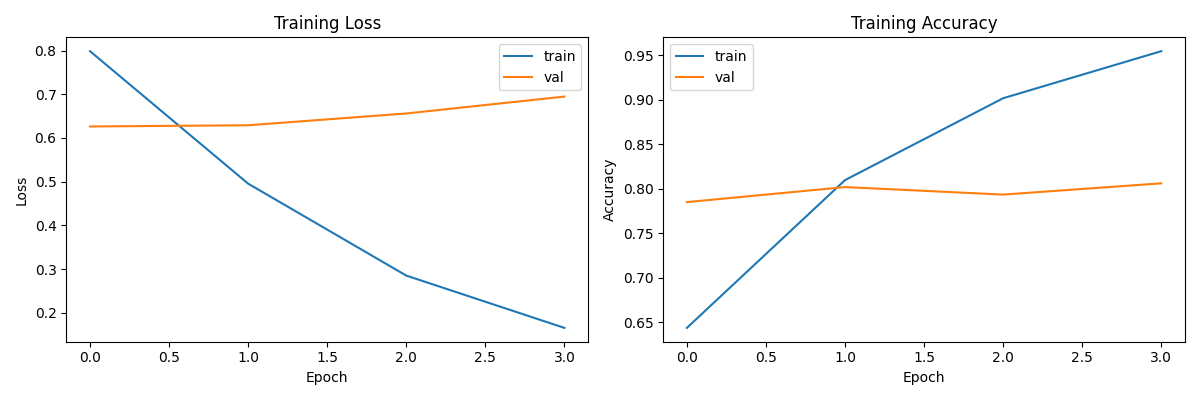
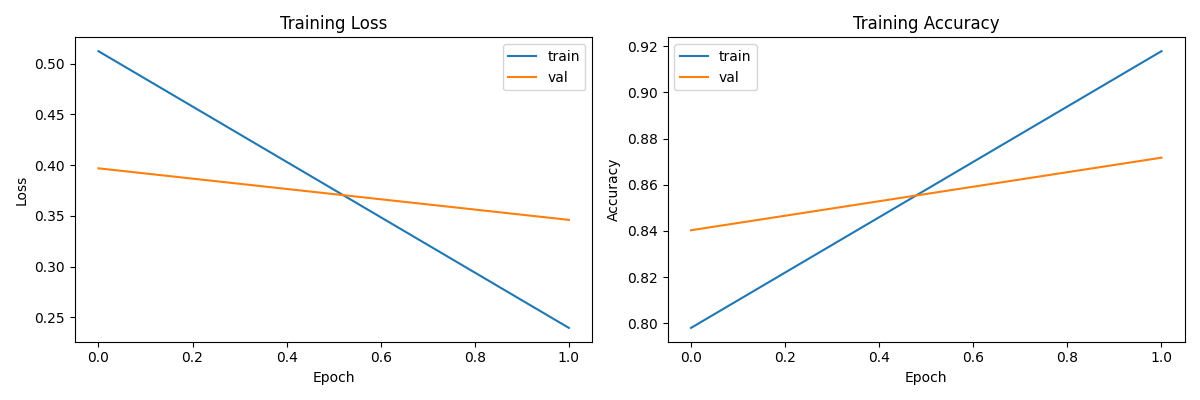
final roberta model 87% accuracy, over predict positive sentiments but overall well balanced

diff --git a/model/roberta-tuned.py b/model/roberta-tuned.py
@@ -12,6 +12,7 @@ from sklearn.model_selection import train_test_split
 import numpy as np
 from tqdm import tqdm
 import matplotlib.pyplot as plt
+import seaborn as sns
 
 #%% Configure Device and Paths
 device = torch.device('cuda' if torch.cuda.is_available() else 'cpu')
@@ -19,37 +20,20 @@ print(f"Using device: {device}")
 
 current_dir = os.path.dirname(os.path.abspath(__file__))
 project_root = os.path.dirname(current_dir)
-DATA_PATH = os.path.join(project_root, 'data', 'all_sentiments.csv')
+DATA_PATH = os.path.join(project_root, 'data', 'nfl_sentiments.csv')
 MODEL_SAVE_PATH = os.path.join(project_root, 'model', 'nfl_sentiment_model_final')
 
 print("Data path:", DATA_PATH)
 print("Model save path:", MODEL_SAVE_PATH)
 
 #%% Load and Prepare Data#%% Load and Prepare Data
-try:
-    # First attempt with automatic delimiter detection
-    df = pd.read_csv(DATA_PATH, sep=None, engine='python', on_bad_lines='skip')
-except Exception as e:
-    print(f"First attempt failed: {e}")
-    try:
-        # Second attempt with explicit CSV handling
-        df = pd.read_csv(
-            DATA_PATH,
-            encoding='utf-8',
-            escapechar='\\',
-            quoting=1,  
-            on_bad_lines='skip'
-        )
-    except Exception as e:
-        print(f"Second attempt failed: {e}")
-        df = pd.read_csv(DATA_PATH, on_bad_lines='skip', engine='python')
-        
+df = pd.read_csv(DATA_PATH, sep=None, engine='python', on_bad_lines='skip')
 # Print data info
 print("\nDataset Info:")
 print(df.info())
 print("\nColumns found:", df.columns.tolist())
 
-# Ensure we have required columns
+# load required columns
 required_columns = ['text', 'sentiment']
 missing_columns = [col for col in required_columns if col not in df.columns]
 if missing_columns:
@@ -102,24 +86,28 @@ class NFLDataset(Dataset):
 
 #%% Initialize Model and Tokenizer
 train_df, eval_df = train_test_split(df, test_size=0.2, random_state=99, stratify=df['label'])
+test_df, eval_df = train_test_split(eval_df, test_size=0.5, random_state=99, stratify=eval_df['label'])
 model_name = "cardiffnlp/twitter-roberta-base-sentiment-latest"
 tokenizer = AutoTokenizer.from_pretrained(model_name)
 model = AutoModelForSequenceClassification.from_pretrained(
     model_name,
-    num_labels=3
+    num_labels=3,
+    hidden_dropout_prob=0.1
 )
 model.to(device)
 
 #%% Create Datasets and Dataloaders
 train_dataset = NFLDataset(train_df['text'].values, train_df['label'].values, tokenizer)
 eval_dataset = NFLDataset(eval_df['text'].values, eval_df['label'].values, tokenizer)
+test_dataset = NFLDataset(test_df['text'].values, test_df['label'].values, tokenizer)
 
-train_dataloader = DataLoader(train_dataset, batch_size=8, shuffle=True)
-eval_dataloader = DataLoader(eval_dataset, batch_size=8)
+train_dataloader = DataLoader(train_dataset, batch_size=32, shuffle=True)
+eval_dataloader = DataLoader(eval_dataset, batch_size=32)
+test_dataloader = DataLoader(test_dataset, batch_size=32)
 
 #%% Training Setup
-num_epochs = 4
-optimizer = torch.optim.AdamW(model.parameters(), lr=2e-5)
+num_epochs = 2
+optimizer = torch.optim.AdamW(model.parameters(), lr=0.00005, weight_decay=0.01)
 num_training_steps = len(train_dataloader) * num_epochs
 scheduler = get_linear_schedule_with_warmup(
     optimizer,
@@ -161,6 +149,8 @@ def evaluate(model, dataloader):
     total_loss = 0
     correct_predictions = 0
     total_predictions = 0
+    true_labels = []
+    predicted_labels = []
     
     with torch.no_grad():
         for batch in tqdm(dataloader, desc='Evaluating'):
@@ -176,8 +166,10 @@ def evaluate(model, dataloader):
             correct_predictions += (predictions == labels).sum().item()
             total_predictions += labels.shape[0]
             total_loss += loss.item()
+            true_labels.extend(labels.cpu().numpy())
+            predicted_labels.extend(predictions.cpu().numpy())
     
-    return total_loss / len(dataloader), correct_predictions / total_predictions
+    return total_loss / len(dataloader), correct_predictions / total_predictions, true_labels, predicted_labels
 
 #%% Training Loop
 best_accuracy = 0
@@ -207,21 +199,21 @@ for epoch in range(num_epochs):
     })
 
 #%% Plot Results
-stats_df = pd.DataFrame(training_stats)
+tr_metrics = pd.DataFrame(training_stats)
 
 plt.figure(figsize=(12, 4))
 
 plt.subplot(1, 2, 1)
-plt.plot(stats_df['train_loss'], label='train')
-plt.plot(stats_df['eval_loss'], label='val')
+plt.plot(tr_metrics['train_loss'], label='train')
+plt.plot(tr_metrics['eval_loss'], label='val')
 plt.title('Training Loss')
 plt.xlabel('Epoch')
 plt.ylabel('Loss')
 plt.legend()
 
 plt.subplot(1, 2, 2)
-plt.plot(stats_df['train_acc'], label='train')
-plt.plot(stats_df['eval_acc'], label='val')
+plt.plot(tr_metrics['train_acc'], label='train')
+plt.plot(tr_metrics['eval_acc'], label='val')
 plt.title('Training Accuracy')
 plt.xlabel('Epoch')
 plt.ylabel('Accuracy')
@@ -257,7 +249,8 @@ test_texts = [
     "Love watching the Colts play! Great team!",
     "Terrible game today, very disappointed",
     "Just another regular game from the Colts",
-    "Dak Prescott injuring his hamstring has positioned Dallas Cowboys into a tough spot with playoff hopes possibly over. #NFL"
+    "Dak Prescott injuring his hamstring has positioned Dallas Cowboys into a tough spot with playoff hopes possibly over. #NFL",
+    "WITH DAK PRESCOTT OUT FOR AT LEAST 4 MONTHS WHERE DO THE DALLAS COWBOYS GO FROM HERE!? WHAT DOES THE FUTURE LOOK LIKE??"
 ]
 
 print("\nTesting model predictions:")
@@ -265,5 +258,26 @@ for text in test_texts:
     sentiment = predict_sentiment(text)
     print(f"\nText: {text}")
     print(f"Predicted sentiment: {sentiment}")
+
+# %%
+# Print classification report for test cases
+from sklearn.metrics import classification_report
+_, _, true_labels, predicted_labels = evaluate(model, test_dataloader)
+
+print("\nClassification Report:")
+print(classification_report(true_labels, predicted_labels))
+
+# %%
+# Confusion Matrix
+from sklearn.metrics import confusion_matrix
+
+conf_matrix = confusion_matrix(true_labels, predicted_labels)
+plt.figure(figsize=(10, 7))
+sns.heatmap(conf_matrix, annot=True, fmt='d', cmap='Blues', xticklabels=['negative', 'neutral', 'positive'], yticklabels=['negative', 'neutral', 'positive'])
+plt.xlabel('Predicted')
+plt.ylabel('Actual')
+plt.title('Confusion Matrix')
+plt.savefig(os.path.join(project_root, 'model', 'confusion_matrix.png'))
+plt.show()
 
 # %%

diff --git a/src/twitter_scrape.py b/src/twitter_scrape.py
@@ -99,7 +99,15 @@ def get_unique_tweets(username, password, team, start_date, end_date, max_tweets
                     if cleaned_text not in seen_tweets:
                         user_info = tweet.find_element(By.CSS_SELECTOR, '[data-testid="User-Name"]')
                         username = user_info.text.split('\n')[0]
-                        timestamp = tweet.find_element(By.TAG_NAME, "time").get_attribute("datetime")
+                        try:
+                            time_element = WebDriverWait(driver, 10).until(
+                                EC.presence_of_element_located((By.TAG_NAME, "time"))
+                            )
+                            timestamp = time_element.get_attribute("datetime")
+                        except Exception as e:
+                            print("Time element not found, skipping timestamp extraction")
+                            timestamp = None
+                            
                         # sentiment analysis with RoBERTa
                         sentiment_scores = analyze_sentiment(cleaned_text)
                         

diff --git a/src/roberta.py b/src/roberta.py
@@ -98,16 +98,8 @@ class NFLSentimentAnalyzer:
             
         except Exception as e:
             print(f"Error in get_sentiment_scores: {str(e)}")
-            return {
-                'negative': 0.0,
-                'neutral': 1.0, 
-                'positive': 0.0,
-                'label': 'neutral',
-                'score': 1.0,
-                'raw_outputs': [0.0, 1.0, 0.0],
-                'context_modifiers': {}
-            }
-    
+            return None
+        
 # Initialize the analyzer as a global instance
 _sentiment_analyzer = None
 def get_analyzer():

diff --git a/src/main.py b/src/main.py
@@ -11,8 +11,7 @@ username = os.getenv('TWITTER_USERNAME')
 password = os.getenv('TWITTER_PASSWORD')
 
 if __name__ == "__main__":
-    # Get team info
-    teams = ['New York Jets']
+    teams = ['Indianapolis Colts']
     start_date = "2024-11-23"
     end_date = "2024-11-30"
     
